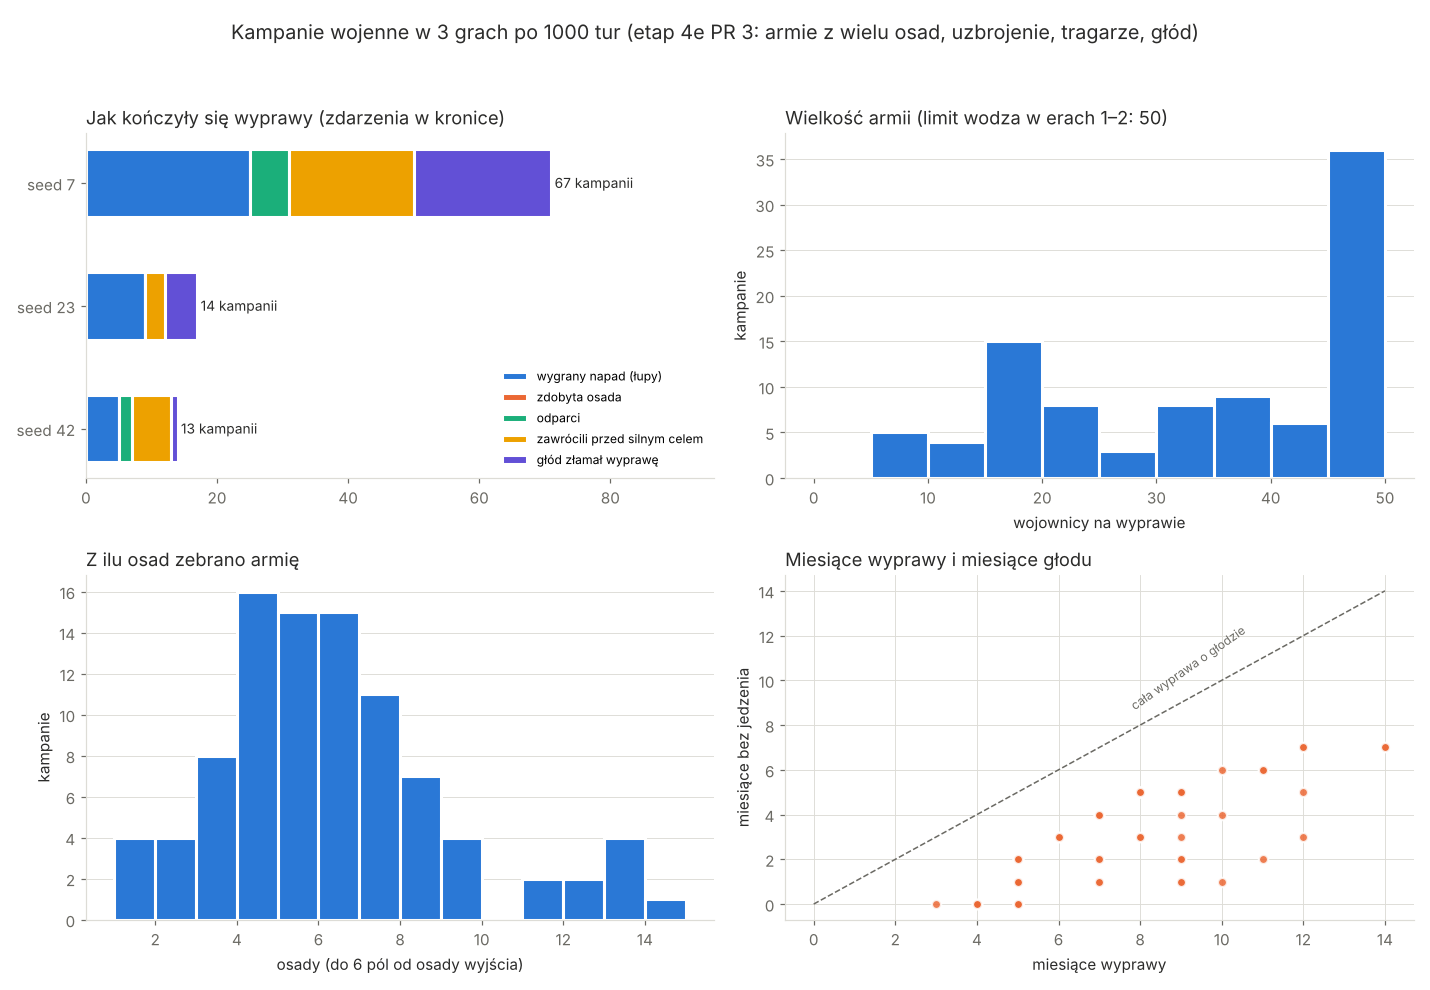
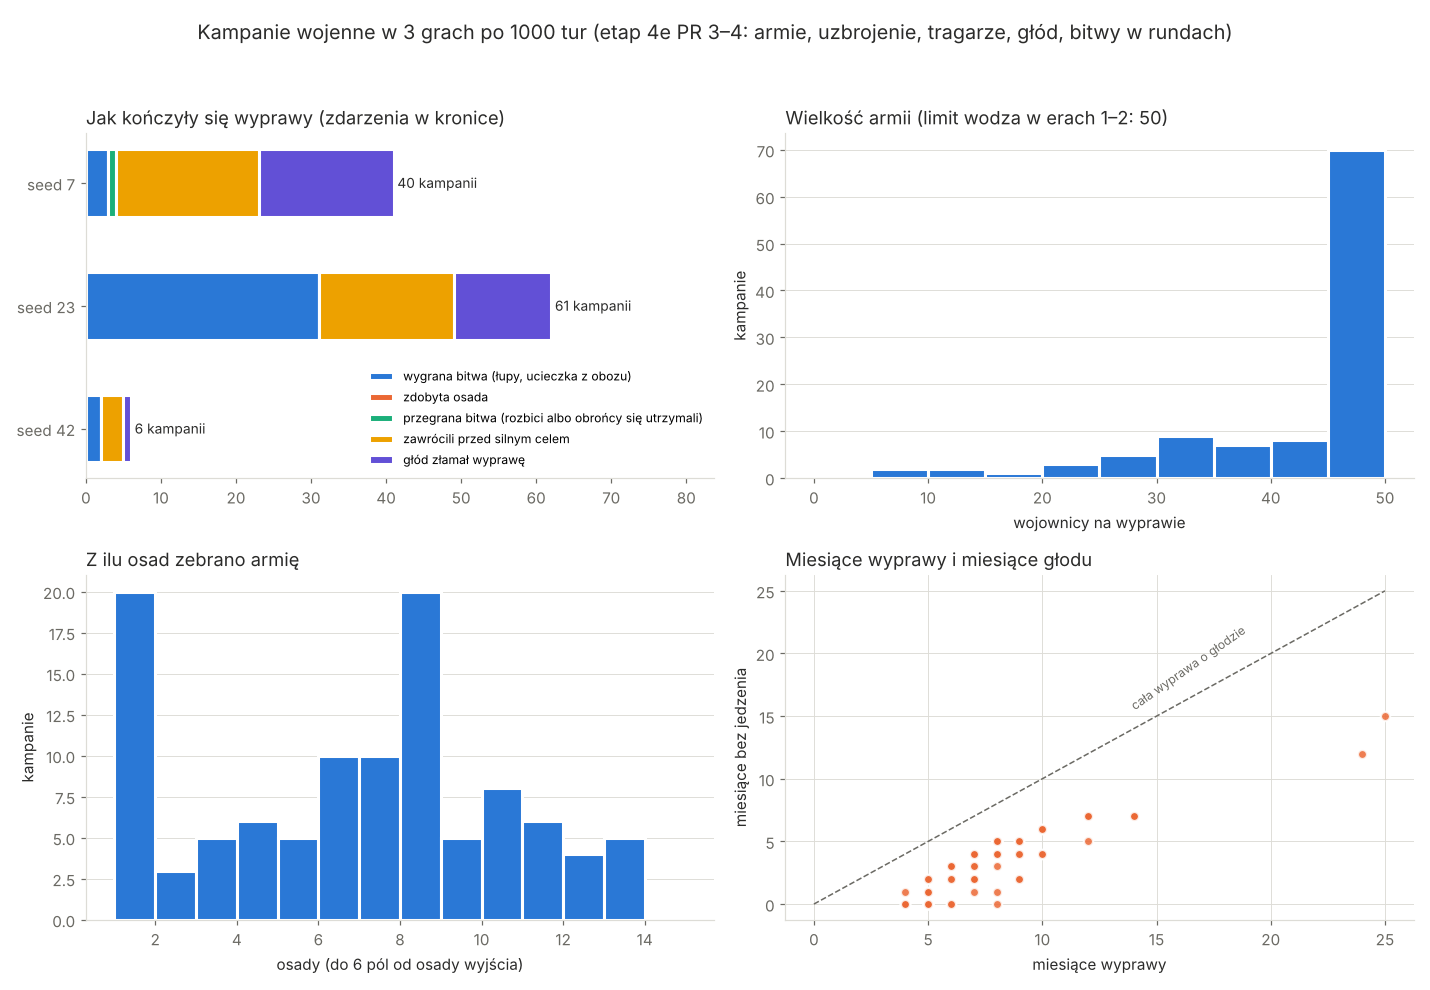
Stage 4e PR 4: docs, battle statistics, roadmap
Claude-Session: https://claude.ai/code/session_0138krcAfa8sT5jZ3xENZWS8

diff --git a/docs/ai/tools/campaign_chart.py b/docs/ai/tools/campaign_chart.py
@@ -21,9 +21,9 @@ SERIES = ['#2a78d6', '#eb6834', '#1baf7a', '#eda100', '#6250d6']
 
 # How campaigns ended, from the chronicle lines.
 OUTCOMES = [
-    ('wygrany napad (łupy)', r'raided .* of '),
-    ('zdobyta osada', r' took .* from '),
-    ('odparci', r'beat back the warriors'),
+    ('wygrana bitwa (łupy, ucieczka z obozu)', r' beat .* at .*fell in'),
+    ('zdobyta osada', r' took .* from .*fell in'),
+    ('przegrana bitwa (rozbici albo obrońcy się utrzymali)', r'(routed the warriors|held .* against)'),
     ('zawrócili przed silnym celem', r'saw how strong'),
     ('głód złamał wyprawę', r'Hunger broke'),
 ]
@@ -36,7 +36,7 @@ for s in SEEDS:
 
 plt.rcParams.update({'font.size': 10, 'axes.edgecolor': GRID, 'axes.labelcolor': INK, 'xtick.color': MUTED, 'ytick.color': MUTED})
 fig, axes = plt.subplots(2, 2, figsize=(13, 9))
-fig.suptitle('Kampanie wojenne w 3 grach po 1000 tur (etap 4e PR 3: armie z wielu osad, uzbrojenie, tragarze, głód)', color=INK, fontsize=13)
+fig.suptitle('Kampanie wojenne w 3 grach po 1000 tur (etap 4e PR 3–4: armie, uzbrojenie, tragarze, głód, bitwy w rundach)', color=INK, fontsize=13)
 
 # (1) Outcomes per seed, stacked.
 a = axes[0][0]

diff --git a/docs/systems/war.md b/docs/systems/war.md
@@ -4,7 +4,7 @@
 
 **Faza tury:** 6. Walka (`WarSystem`), w krokach cywilizacji (ADR 0018). Wypowiedzenie wojny i pokój: faza decyzji (komendy dyplomaty).
 
-**Stan:** PR 1 (cel, wynik, zmęczenie, pokój z warunkami), PR 2 (kampanie jako epizody z krokiem co miesiąc, `docs/systems/episodes.md`, ADR 0022) i PR 3 (uzbrojenie, armie z wielu osad, limity er, tragarze, głód). Bitwy w rundach, pełny dowódca i strojenie w PR 4–6 (`docs/prompts/07-etap-wojna.md`).
+**Stan:** PR 1 (cel, wynik, zmęczenie, pokój z warunkami), PR 2 (kampanie jako epizody z krokiem co miesiąc, `docs/systems/episodes.md`, ADR 0022) PR 3 (uzbrojenie, armie z wielu osad, limity er, tragarze, głód) i PR 4 (bitwa w rundach, teren, podbój, ucieczka z obozu). Pełny dowódca i strojenie w PR 5–6 (`docs/prompts/07-etap-wojna.md`).
 
 ## Dane wejściowe i wyjściowe
 - Czyta: `data/war.json`, traktaty (`TreatyBook`), wspomnienia relacji, osady stron.
@@ -19,6 +19,7 @@ flowchart TD
   D --> R["Świadkowie pamiętają napaść<br/>(łupy 100%, ziemia 50%, odwet 0%)"]
   D --> W["Kampanie co miesiąc (epizody) i napaści obozów<br/>wynik ± za walkę i zdobytą osadę"]
   W --> A["Armia z kilku osad, uzbrojenie z zapasów,<br/>jedzenie, tragarze, głód (PR 3)"]
+  A --> B["Bitwa w rundach: teren, morale,<br/>ucieczka; podbój wioski, ucieczka z obozu (PR 4)"]
   W --> Z["Zmęczenie:<br/>miesiące kampanii + straty"]
   W --> Q["5 lat bez kampanii:<br/>biały pokój"]
   Z --> M["Efekt war_weariness: nastrój −"]
@@ -39,7 +40,16 @@ flowchart TD
   proce 80% (garbarstwo, 0,1 skóry), włócznie i topory z kamiennym grotem 100% (obróbka krzemienia, 0,2 narzędzi kamiennych). Każdy wojownik
   bierze najsilniejszy poziom, którego technologię zna cywilizacja i na który jego osada ma jeszcze dobra; dobra zużywa przy wyjściu.
   Obrońcy walczą tym, na co pozwalają ich zapasy (bez zużycia), pozostali mieszkańcy gołymi rękami (25% z nich).
-- **Siła w walce:** `wojownicy × uzbrojenie × morale` przeciw obronie; szansa = udział w sumie sił (strumień `combat`).
+- **Siła w walce:** `wojownicy × uzbrojenie × morale` (głodna armia bez jedzenia × 75%) przeciw obronie z terenem.
+- **Teren** (PR 4, `battle.terrain`): obrońcy +25% na wzgórzach, +50% w górach, +25% w lesie liściastym, tajdze, dżungli i na bagnach,
+  +25%, gdy atakujący przychodzą przez rzekę (krawędź pola osady); procenty się sumują.
+- **Bitwa w rundach** (PR 4, `Battles.Fight`, strumień `combat`): najwyżej 6 rund. W każdej rundzie strona zabija `siła × 10% × szczęście`
+  ludzi (100 = jeden wojownik z kamiennym grotem; szczęście losowane z 50–150%, ułamek człowieka losowo). Każdy procent straconych ludzi
+  w rundzie to −3 morale; strona z morale poniżej 40 ucieka (obie: ta z mniejszym morale) i traci jeszcze 10% ludzi w ucieczce. Gdy nikt
+  nie ucieknie przez 6 rund, obrońcy się utrzymali. Obrońcy to wojownicy i 25% reszty mieszkańców (z morale 100); giną najpierw wojownicy.
+- **Po bitwie** (PR 4): wygrana w wojnie o ziemię zabiera wioskę, o którą jest wojna, z ludźmi; ludzie pokonanego obozu uciekają z tym, co
+  uniosą, do swojej najbliższej osady, a obóz zostaje pusty; w innym razie zwycięzcy biorą łupy. Wynik i straty idą do wojny
+  (`Wars.RecordFight`), morale armii po bitwie zostaje.
 - **Armia z wielu osad** (PR 3): osada wyjścia i własne osady do 6 pól (`musterCells`), z każdej najwyżej 2/3 wojowników; najwyżej `armyLimit`
   wojowników (dane ery, 50 w erach 1–2); `troopsPerCell` (50) mówi, na ilu polach stoi armia (front; w erach 1–2 zawsze jedno pole).
 - **Zaopatrzenie** (PR 3, `supply`): wojownik zjada 1 jedzenia na rok; armia bierze jedzenie na 3 miesiące (najwyżej połowę jedzenia każdej osady
@@ -72,8 +82,12 @@ Przy każdym etapie nowej ery (etapy 6–12) sprawdź i uzupełnij:
 ## Pliki danych
 - `data/war.json` (PR 1; `armaments`, `musterCells`, `minFoodMonths`, `supply` od PR 3).
 - `data/eras.json`: `armyLimit`, `troopsPerCell` (PR 3).
+- `data/war.json` `battle` (PR 4): rundy, straty, szczęście, morale, ucieczka, głód, teren.
 
 ## Testy
+- `BattleTests` (PR 4): dane bitwy; równa bitwa kończy się ucieczką i kosztuje obie strony, wynik ok. 50/50 i powtarzalny; dużo silniejsza
+  strona wygrywa tanio, niskie morale ucieka szybciej; bez ucieczki obrońcy się utrzymują; wzgórza i rzeka pomagają obrońcom; wojna o
+  ziemię zabiera wioskę z ludźmi; ludzie pobitego obozu uciekają do najbliższej osady; błędy w danych.
 - `ArmyTests` (PR 3): dane uzbrojenia i limitów; najsilniejsze uzbrojenie z zapasów i zużycie dóbr; zbiórka z dwóch osad i powrót ocalałych
   do obu; 1/3 w domu każdej osady, odległość, limit wodza, front; tragarze dochodzą i wracają; głód łamie wyprawę; głodna armia napada wioskę;
   zapis z armią i tragarzami, migawka dla podglądu; dowódca zbiera armię z osad w pobliżu; błędy w danych.

diff --git a/docs/ai/README.md b/docs/ai/README.md
@@ -4,7 +4,7 @@ Ten katalog opisuje **każdą decyzję**, którą podejmuje sztuczna inteligencj
 na podstawie jakich danych, według jakiego wzoru, z jakimi progami i gdzie to jest w kodzie. Jest pisany dla Patryka:
 żeby można było ocenić, czy mechanika nie jest za prosta albo za skomplikowana i bez sensu.
 
-**Stan opisu:** etap 4d + zegar świata (ADR 0018) + wartości i priorytety (PR B, ADR 0019) + ziemia i migracje (PR C) + fachy, ludzie i demografia (cały etap 4F) + wojna z celem i pokój z warunkami (etap 4e PR 1) + epizody i pierwszy dowódca (etap 4e PR 2) + armie z wielu osad, uzbrojenie i zaopatrzenie (etap 4e PR 3, gałąź `feat/war-armies`). Bitwy w rundach i pełny dowódca: 4e PR 4–5.
+**Stan opisu:** etap 4d + zegar świata (ADR 0018) + wartości i priorytety (PR B, ADR 0019) + ziemia i migracje (PR C) + fachy, ludzie i demografia (cały etap 4F) + wojna z celem i pokój z warunkami (etap 4e PR 1) + epizody i pierwszy dowódca (etap 4e PR 2) + armie z wielu osad, uzbrojenie i zaopatrzenie (etap 4e PR 3) + bitwy w rundach (etap 4e PR 4, gałąź `feat/war-battles`). Pełny dowódca: 4e PR 5.
 **Aktualizacja:** po każdym etapie, który zmienia AI (zasada w `CLAUDE.md`). Historia zmian jest na dole tej strony.
 
 ## Jak czytać
@@ -128,6 +128,7 @@ w `docs/systems/`:
 | 2026-11-06 | zegar (ADR 0018) | Rytm każdej cywilizacji: decyzje proaktywne we własnym kroku, reaktywne (alarmy wojny i napadu, propozycje, wybór badania) w każdym kroku świata; nowe reakcje D2 i G2; odstępy AI w własnych krokach (`reviewEverySteps`, `searchEverySteps`, `minStepsBetweenMoves`); zwiad, widzenie i pogłoski w własnym kroku; nowe statystyki, wykres rytmów i ludności przed/po. |
 | 2026-11-06 | wartości (PR B, ADR 0019) | Uczony od nowa (priorytet z położenia, braków i charakteru, koszt jako przeszkoda łagodzona ciekawością); skarbnik: cele towarów, koordynacja sieci, koniec przełączania „praca ↔ brak”, premia za handel; strateg: wagi nauki i wpływu; „zostać” z połową wagi ekspansji; obce obozy i wojownicy tylko z pól widzianych teraz; 11 liczb z kodu do `data/ai.json` (sekcja `scholar`); test martwych wartości; nowe statystyki z 3 seedów, wykresy decyzji i „przed/po”. |
 | 2026-11-06 | ziemia i migracje (PR C) | Gubernator wycenia ziemię z technologiami zbierania cywilizacji, rybacy liczą wodę; G4 osiedlenie dla prawdziwej liczby producentów i w porównaniu ze zbieractwem i ekspansywnością (`settleOverGatheringPercent`); nowe decyzje G7 (wioska wysyła osadników) i G8 (wyprawa w nieznane); osadnicy omijają strefy własnych osad; zwiad i marsz na stulecie (`data/perception.json`); nowe parametry w `data/ai.json`; punkty 4, 5, 6 i 8 oceny zamknięte, nowy punkt 10 (wydajność); statystyki z 3 seedów, wykres ziemi i migracji, wykres decyzji z G7 i G8. |
+| 2026-11-07 | bitwy w rundach (etap 4e, PR 4) | Dowódca (K1) liczy szansę z premią terenu celu; na miejscu armia liczy ją jeszcze raz z rzeką i głodem. Bitwa sama jest regułą systemu (nie decyzją AI). Statystyki bitew w `09-statystyki.md`. |
 | 2026-11-07 | armie, uzbrojenie, zaopatrzenie (etap 4e, PR 3) | Dowódca (K1) zbiera armię z osad do 6 pól (do 50 wojowników), liczy siłę z uzbrojeniem obu stron i nie wysyła armii bez jedzenia na co najmniej miesiąc (nowy czynnik „food months”, tylko zapis). Statystyki kampanii i wykres w `09-statystyki.md`. |
 | 2026-11-07 | epizody i kampanie (etap 4e, PR 2) | Nowy doradca: dowódca (K1) wysyła kampanie (szansa z tego, co widzi, próg 60%; cel niewidoczny: idą zobaczyć i zawracają przed silniejszym). Dyplomata myśli o pokoju w każdym kroku świata między kampaniami (zmęczenie ≥ 60 albo wynik ≥ 20). Alarmy dają krok świata po miesiącu (reakcje szybciej). Zmęczenie z miesięcy kampanii, nie z lat. Parametry dowódcy chwilowo w `data/war.json` (do `ai.json` w PR 5). |
 | 2026-11-07 | wojna z celem (etap 4e, PR 1) | Dyplomata: cel wojny (ziemia przy roszczeniu, inaczej odwet), zmęczenie wojną (lata + straty, `data/war.json`) zamiast lat wojny w ocenie pokoju, nowy czynnik „warunki pokoju”, pokój proponowany z warunkami (osada, okup, biały) i przy zmęczeniu ≥ 60 w każdym kroku; agresja jako powód wojny. Nowe parametry w `07-parametry.md`, statystyki wojen w `09-statystyki.md`, nowy wykres decyzji. |

diff --git a/docs/systems/episodes.md b/docs/systems/episodes.md
@@ -4,7 +4,7 @@
 
 **Faza tury:** zegar w fazie zapisu (`CalendarSystem`, `WorldClock.Begin` i `WorldClock.Shorten`); kampanie w fazie walki (`CampaignSystem`, faza 6); decyzje dowódcy i dyplomaty w fazie decyzji.
 
-**Stan:** etap 4e PR 2: silnik epizodów i pierwsza kampania; PR 3: armie z wielu osad, uzbrojenie, tragarze, głód, armie w podglądzie.
+**Stan:** etap 4e PR 2: silnik epizodów i pierwsza kampania; PR 3: armie z wielu osad, uzbrojenie, tragarze, głód, armie w podglądzie; PR 4: bitwa w rundach i podbój.
 
 ## Dane wejściowe i wyjściowe
 - Czyta: `data/war.json` (krok kampanii, marsz, ciche wygasanie wojny, progi dowódcy), kroki cywilizacji, wojny, alarmy.
@@ -36,8 +36,8 @@ flowchart TD
   - każdy krok: armia je (najpierw niesione jedzenie, potem jedzenie z łupów); głodna traci morale, napada pobliską wioskę wroga, przy morale < 30 zawraca; tragarze idą za nią (szczegóły: `docs/systems/war.md`);
   - marsz: 3 pola na miesiąc po znanych polach (ok. 150 km na pole; ok. 15 km dziennie);
   - u celu wojownicy widzą osadę: atakują tylko przy szansie co najmniej 60%, inaczej wracają;
-  - walka: szansa = ich udział w sile (wojownicy × uzbrojenie × morale przeciw wojownikom z uzbrojeniem z ich zapasów + 25% reszty mieszkańców gołymi rękami), na strumieniu `combat`; straty jak przy napaści;
-  - wygrana: łupy (tyle, ile uniosą wojownicy, ten sam udział każdego zapasu); w wojnie o ziemię zdobyta wioska przechodzi z ludźmi do zwycięzcy, a pokonani mają do niej roszczenie;
+  - walka (od PR 4): bitwa w rundach na strumieniu `combat` (`Battles.Fight`, szczegóły w `docs/systems/war.md`): siła z uzbrojeniem, morale, głodem i terenem obrońców, straty co rundę, ucieczka przy niskim morale;
+  - wygrana: łupy (tyle, ile uniosą wojownicy, ten sam udział każdego zapasu); w wojnie o ziemię zdobyta wioska przechodzi z ludźmi do zwycięzcy, a pokonani mają do niej roszczenie; ludzie pobitego obozu uciekają do swojej najbliższej osady;
   - powrót: ocaleni wracają do osad, z których przyszli (w proporcji), łupy i resztka jedzenia do osady wyjścia (albo do najbliższej własnej, gdy domu już nie ma).
 - **Wojna** (`WarSystem`): wojna bez kampanii przez 5 lat kończy się białym pokojem; zmęczenie = miesiące kampanii × 5 + procent zabitych × 3.
 

diff --git a/ROADMAP.md b/ROADMAP.md
@@ -170,7 +170,7 @@ morale i uzbrojenie z technologii, dowódca nie rusza na przegraną wojnę, a zm
 - [x] **PR 1:** cel wojny (ziemia, łupy, odwet), wynik i zmęczenie (efekt na nastrój), pokój z warunkami (osada, okup, biały pokój), wspomnienie „napaść bez powodu”; dzisiejsze napaści liczą się do wyniku; `data/war.json`, zapis, hash, `--wars` w Headless; dyplomata wybiera cel i warunki
 - [x] **PR 2:** epizody (krótki zegar w miesiącach, kroki pełne i kroki epizodów, `WorldMonths`, zapis, hash, determinizm) i pierwsza kampania: wyprawa wojowników z jednej osady, marsz po mapie, walka u celu, powrót z łupami; wojna bez kampanii wygasa po 5 latach; zmęczenie z miesięcy kampanii i strat; prosty wybór kampanii przez AI z progiem szansy (kampanie w migawce dla podglądu: przeniesione do PR 3)
 - [x] **PR 3:** kampanie w migawce i w podglądzie; uzbrojenie z technologii (gołe ręce, drewniane włócznie, proce, kamienne groty; wpisy w danych); wyprawy z wielu osad (1/3 zostaje w domu), limit wodza i ludzi na polu z danych er (front na kilku polach gotowy na przyszłe ery); tragarze z jedzeniem po trasie, głodna wyprawa napada wioski (zrobione: `feat/war-armies`; dowódca nie wysyła armii bez jedzenia na miesiąc, raport `--campaigns`, zapis w formacie 24, protokół 9)
-- [ ] **PR 4:** bitwa w rundach (teren, morale, uzbrojenie, najedzenie, ucieczka, straty), podbój wioski z ludźmi, ucieczka z obozu
+- [x] **PR 4:** bitwa w rundach (teren, morale, uzbrojenie, najedzenie, ucieczka, straty), podbój wioski z ludźmi, ucieczka z obozu (zrobione: `feat/war-battles`, `data/war.json` `battle`, zapis w formacie 25)
 - [ ] **PR 5:** AI: dowódca (spodziewany wynik bitwy z tego, co widzi, próg szansy w `data/ai.json`; zbiórka, marsz, atak, czekanie, odwrót, obrona co miesiąc kampanii); test martwych wartości; `docs/ai/`
 - [ ] **PR 6:** strojenie i statystyki z 3 seedów (wojny, kampanie, bitwy, straty, zmęczenie), `docs/systems/war.md` z sekcją „Co erę”
 - [ ] Po etapie 4e: susza, głód, epidemia i wyprawy odkrywców jako epizody (ADR 0022)

diff --git a/docs/ai/07-parametry.md b/docs/ai/07-parametry.md
@@ -132,6 +132,7 @@ w zapisanych sytuacjach z gier. Parametr, który niczego nie zmienia, wywala tes
 | `minFoodMonths` | 1 | miesiące | K1 | dowódca wysyła armię tylko wtedy, gdy osady mogą jej dać jedzenie co najmniej na tyle (od PR 3) |
 | `musterCells` | 6 | pola | K1 | z jak daleka od osady wyjścia dołączają wojownicy innych osad (od PR 3) |
 | `armaments[]` | gołe ręce 50, włócznie hartowane w ogniu 70, proce 80, kamienne groty 100 | % siły | K1 | uzbrojenie (technologia, dobro, zużycie na wojownika); dowódca liczy z niego siłę obu stron (od PR 3) |
+| `battle.*` | 6 rund, 10% siły zabija, szczęście 50–150%, −3 morale na % strat, ucieczka poniżej 40, obrońcy z morale 100, głodni 75%, ucieczka −10%; teren: wzgórza +25, góry +50, rzeka +25, lasy, dżungla i bagna +25 | — | K1 (teren w szansie) | bitwa w rundach (od PR 4); dowódca widzi teren celu w szansie (bez rzeki, bo nie wie, skąd przyjdzie) |
 | `supply.*` | jedzenie 1 na wojownika na rok, zapas na 3 miesiące, tragarze poniżej 2 miesięcy, do 12 pól, 10% ludzi, 4 pola na miesiąc; głód −20 morale na miesiąc, najedzeni +10, odwrót poniżej 30, napad na wioskę do 4 pól | — | K1 (pośrednio) | zaopatrzenie i głód kampanii (od PR 3); dowódca liczy dostępne jedzenie z `supplySharePercent` 50% |
 | `wearinessPerLossPercent` | 3 | punkty na % ludzi zabitych | D1, D2 | zmęczenie ze strat |
 | `peaceAbove` | 60 | punkty zmęczenia | D2 | od tego zmęczenia strona szuka pokoju w każdym kroku i przy każdej ocenie |

diff --git a/docs/ai/09-statystyki.md b/docs/ai/09-statystyki.md
@@ -16,6 +16,22 @@ Wykres: `python3 docs/ai/tools/decisions_chart.py <katalog z why7.csv, why23.csv
 
 ![Ile decyzji podjęło AI](img/decyzje_1000_tur.png)
 
+## Bitwy w rundach (etap 4e, PR 4)
+
+Z `--campaigns` i kroniki, 3 seedy, mapa standard, 1000 kroków świata (wykres niżej, w sekcji PR 3, jest już z tych gier).
+
+| Seed | Kampanie | Bitwy | Wygrane | Zabici atakujący | Zabici obrońcy | Zawrócili przed silnym celem | Głód złamał | Rundy w bitwie |
+| --- | ---: | ---: | ---: | ---: | ---: | ---: | ---: | --- |
+| 7 | 40 | 4 | 3 | 1 | 10 | 19 | 18 | zawsze 1 |
+| 23 | 61 | 31 | 31 | 28 | 144 | 18 | 13 | 26× 1, 4× 2, 1× 3 |
+| 42 | 6 | 2 | 2 | 0 | 5 | 3 | 1 | zawsze 1 |
+
+- **Bitwy są krótkie i prawie zawsze wygrane przez atakujących:** dowódca rusza tylko przy szansie co najmniej 60% (udział w sile), więc
+  atakuje słabsze obozy i wioski; obrońcy tracą w pierwszej rundzie tyle ludzi, że uciekają. Równe bitwy (test `BattleTests`) trwają 3–4 rundy.
+- **Żadna wioska nie zmieniła właściciela** w tych grach: wojny o ziemię są rzadkie, a wyprawy częściej zawracają albo głodują. Podbój działa
+  w teście `AWarForLandTakesTheVillageWithItsPeople`.
+- **Głód i zawracanie** dalej kończą większość wypraw (patrz PR 3). Do PR 5 (dowódca liczy spodziewaną bitwę, drogę i jedzenie) i PR 6.
+
 ## Armie, uzbrojenie i zaopatrzenie (etap 4e, PR 3)
 
 Z `--campaigns` (nowy raport: jeden wiersz na kampanię) i z kroniki, 3 seedy, mapa standard, 1000 kroków świata. Wykres:

diff --git a/docs/prompts/07-etap-wojna.md b/docs/prompts/07-etap-wojna.md
@@ -44,7 +44,7 @@ wygasa po 5 latach; susza, głód i epidemia jako epizody po etapie 4e; #48 do s
    - Wojna bez kampanii wygasa po `quietPeaceYears` (5) białym pokojem; zmęczenie = miesiące kampanii × `wearinessPerCampaignMonth` + straty × `wearinessPerLossPercent`.
    - Zapis, hash, migawka (wyprawy w podglądzie jak zwiadowcy), `--wars` z liczbą kampanii.
 3. **Uzbrojenie i wyprawy z wielu osad** (`feat/war-armies`): `armaments` w danych; zbiórka z wielu osad (1/3 zostaje); dane er: `armyLimit`, `troopsPerCell`; tragarze; głód wyprawy i napady na wioski. Zrobione (bez notatki przekazania; liczby w `data/war.json`, sekcja `supply`; statystyki w `docs/ai/09-statystyki.md`). Do PR 5–6: głód łamie część wypraw idących dalej niż zasięg tragarzy (12 pól).
-4. **Bitwa i podbój** (`feat/war-battles`): rundy (strumień `combat`), teren, morale, najedzenie, ucieczka; podbój wioski i ucieczka z obozu.
+4. **Bitwa i podbój** (`feat/war-battles`): rundy (strumień `combat`), teren, morale, najedzenie, ucieczka; podbój wioski i ucieczka z obozu. Zrobione (`Battles`, `data/war.json` `battle`).
 5. **Dowódca AI** (`feat/war-commander`): spodziewany wynik bitwy bez losowania, z tego, co widzi; decyzje co miesiąc kampanii; `DeadValueTests`; `docs/ai/`.
 6. **Strojenie i statystyki** (`feat/war-tuning`).
 

diff --git a/docs/ai/11-dowodca.md b/docs/ai/11-dowodca.md
@@ -25,7 +25,8 @@ Dowódca wysyła **kampanie**: armie zebrane z osady wyjścia i z własnych osad
   osada wroga w zasięgu wędrówki (40 pól).
 - **Szansa** (`Campaigns.WinChancePercent`): gdy cel widzieliśmy w ostatnim własnym kroku, to nasz udział w sile uzbrojonej
   (od PR 3: każdy wojownik z najlepszym uzbrojeniem, na jakie stać jego osadę, przeciw obronie: ich wojownicy z uzbrojeniem z ich
-  zapasów + 25% reszty mieszkańców z gołymi rękami). Odrzucamy cel z szansą poniżej 60%
+  zapasów + 25% reszty mieszkańców z gołymi rękami; od PR 4 obrona z premią terenu pola celu). Na miejscu wojownicy liczą szansę jeszcze
+  raz, z terenem i rzeką od strony, z której przyszli, i z głodem; przy szansie od 60% wchodzą do bitwy w rundach. Odrzucamy cel z szansą poniżej 60%
   (`minWinChancePercent`). Gdy go nie widzimy, nikt nie wie: wojownicy idą zobaczyć (w ocenie szansa 50%). Na miejscu atakują tylko
   przy prawdziwej szansie co najmniej 60%, w innym razie zawracają (decyzja Patryka: dowódca nie idzie na pewną porażkę).
 - **Ocena:** `1000 × szansa × waga celu „podbój” × mnożnik charakteru (agresja)`, odległość tylko w zapisie „Dlaczego?”.
